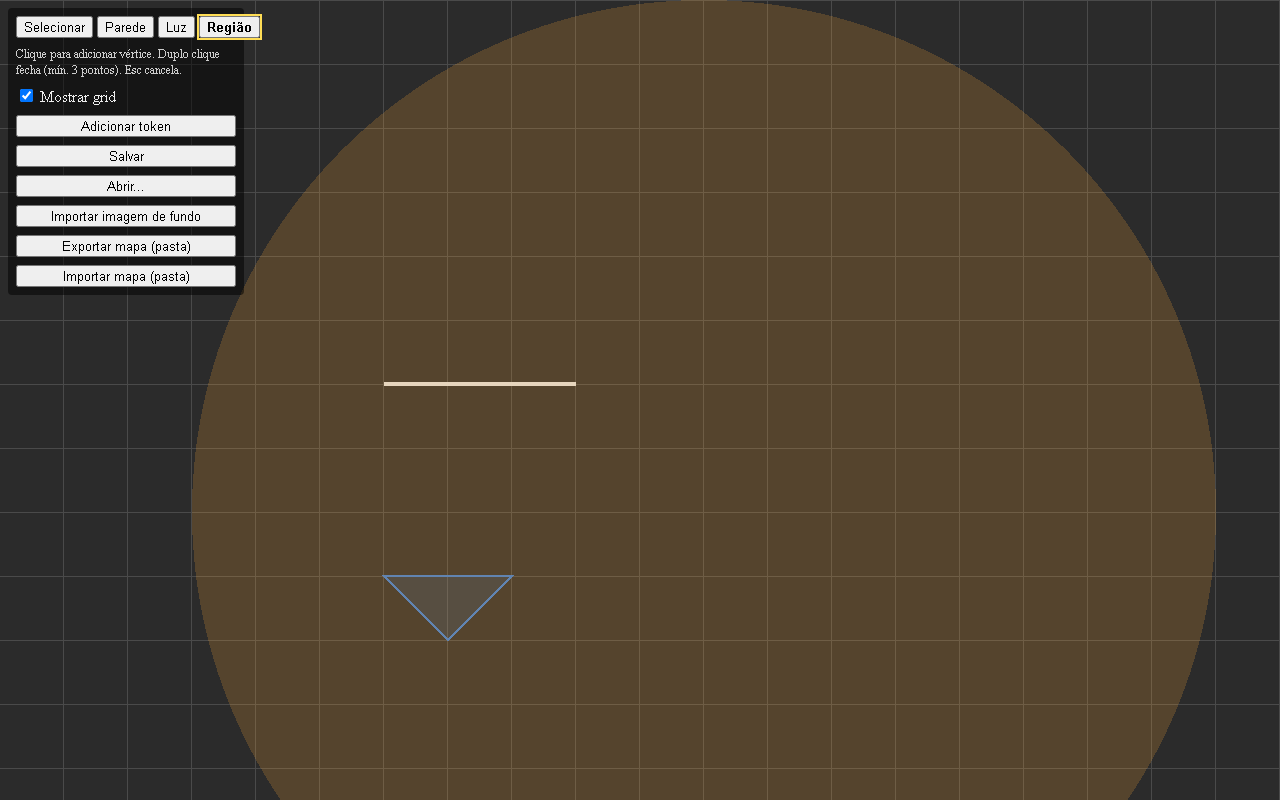
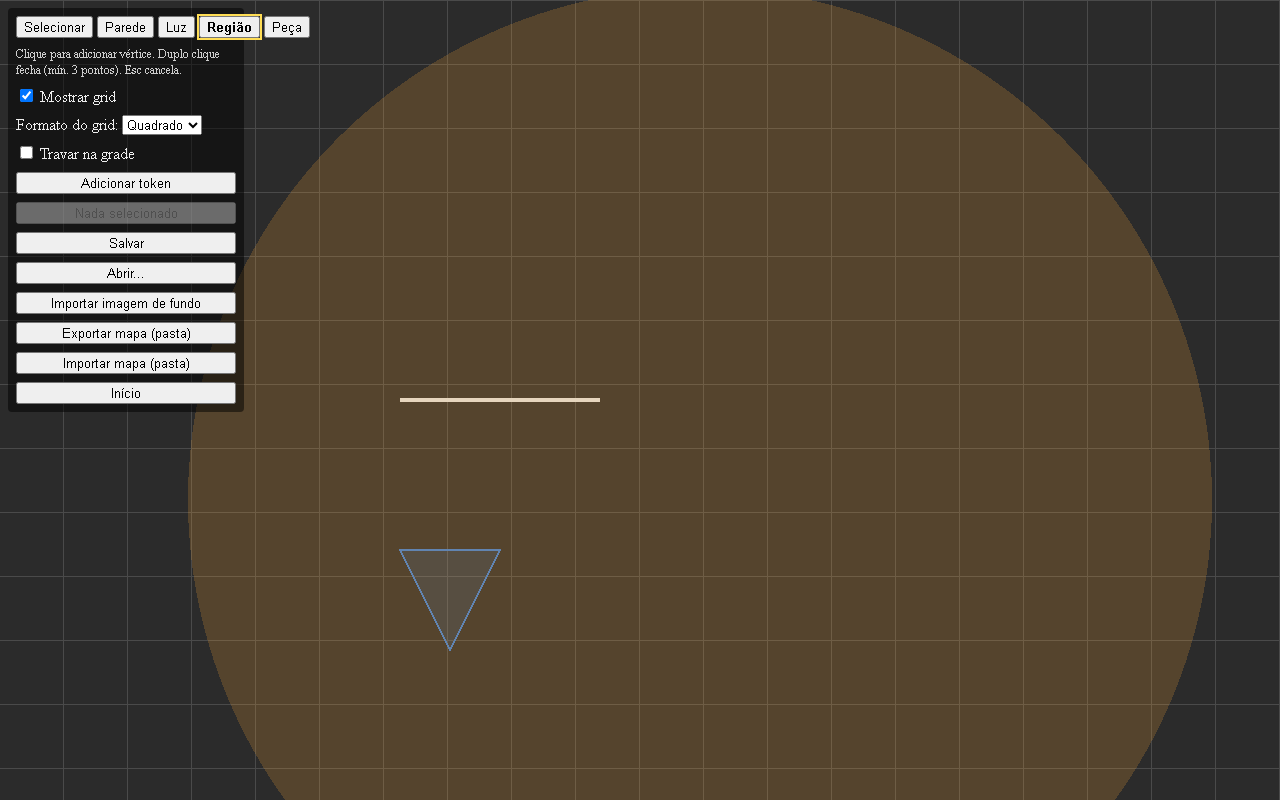
feat: tela inicial com wizard de novo mapa
App não joga mais direto no editor em branco. StartScreen.tsx oferece
"Criar mapa" (nome, largura/altura em quadros, tamanho do quadro,
formato de grade) e "Abrir mapa existente..." (reaproveita o picker
já existente). Editor ganha botão "Início" para voltar. Navegação é
estado local de App.tsx — não entra no Zustand, é só UI.

Ajusta os 3 specs e2e existentes para passar pela tela inicial
(clicar "Criar mapa") antes de esperar o <canvas>, já que o app não
abre mais direto no editor.

diff --git a/client/src/StartScreen.tsx b/client/src/StartScreen.tsx
@@ -1,0 +1,114 @@
+import { useState } from 'react'
+import type { MapData, GridShape } from './types/map'
+import * as mapFactory from './lib/mapFactory'
+
+interface StartScreenProps {
+  onCreate: (map: MapData) => void
+  onOpen: () => void
+}
+
+const inputStyle = { width: '100%', boxSizing: 'border-box' as const }
+const fieldStyle = { display: 'flex', flexDirection: 'column' as const, gap: 4 }
+
+export function StartScreen({ onCreate, onOpen }: StartScreenProps) {
+  const [name, setName] = useState('Mapa sem título')
+  const [width, setWidth] = useState(30)
+  const [height, setHeight] = useState(20)
+  const [gridSize, setGridSize] = useState(64)
+  const [gridShape, setGridShape] = useState<GridShape>('square')
+
+  const handleSubmit = (event: React.FormEvent) => {
+    event.preventDefault()
+    const map: MapData = {
+      ...mapFactory.createEmptyMap(
+        `map_${crypto.randomUUID()}`,
+        name.trim() || 'Mapa sem título',
+        Math.max(1, Math.round(width) || 30),
+        Math.max(1, Math.round(height) || 20),
+        Math.max(1, Math.round(gridSize) || 64),
+      ),
+      gridShape,
+    }
+    onCreate(map)
+  }
+
+  return (
+    <div
+      style={{
+        width: '100vw',
+        height: '100vh',
+        display: 'flex',
+        alignItems: 'center',
+        justifyContent: 'center',
+        background: '#1a1a1a',
+        color: '#eee',
+      }}
+    >
+      <div style={{ display: 'flex', gap: 32, alignItems: 'flex-start' }}>
+        <form
+          onSubmit={handleSubmit}
+          style={{
+            display: 'flex',
+            flexDirection: 'column',
+            gap: 12,
+            width: 280,
+            background: '#242424',
+            padding: 24,
+            borderRadius: 8,
+          }}
+        >
+          <h1 style={{ fontSize: 18, margin: '0 0 8px' }}>Labirinto</h1>
+          <label style={fieldStyle}>
+            Nome do mapa
+            <input style={inputStyle} value={name} onChange={(event) => setName(event.target.value)} />
+          </label>
+          <label style={fieldStyle}>
+            Largura (quadros)
+            <input
+              style={inputStyle}
+              type="number"
+              min={1}
+              value={width}
+              onChange={(event) => setWidth(Number(event.target.value))}
+            />
+          </label>
+          <label style={fieldStyle}>
+            Altura (quadros)
+            <input
+              style={inputStyle}
+              type="number"
+              min={1}
+              value={height}
+              onChange={(event) => setHeight(Number(event.target.value))}
+            />
+          </label>
+          <label style={fieldStyle}>
+            Tamanho do quadro (px)
+            <input
+              style={inputStyle}
+              type="number"
+              min={1}
+              value={gridSize}
+              onChange={(event) => setGridSize(Number(event.target.value))}
+            />
+          </label>
+          <label style={fieldStyle}>
+            Formato da grade
+            <select
+              style={inputStyle}
+              value={gridShape}
+              onChange={(event) => setGridShape(event.target.value as GridShape)}
+            >
+              <option value="square">Quadrado</option>
+              <option value="hex">Hexágono</option>
+            </select>
+          </label>
+          <button type="submit">Criar mapa</button>
+        </form>
+        <button type="button" onClick={onOpen} style={{ alignSelf: 'center' }}>
+          Abrir mapa existente...
+        </button>
+      </div>
+    </div>
+  )
+}

diff --git a/client/e2e/task4-selection-pixel-diff.spec.ts b/client/e2e/task4-selection-pixel-diff.spec.ts
@@ -27,6 +27,7 @@ test.beforeEach(async ({ page }) => {
     }
   })
   await page.goto('/')
+  await page.getByRole('button', { name: 'Criar mapa' }).click()
   await page.waitForSelector('canvas')
   await resetMap(page)
 })
@@ -43,14 +44,14 @@ test('parede: pixel da região muda ao selecionar (destaque amarelo desenha de v
 
   await selectTool(page, 'Selecionar')
   const clip = { x: box.x + 380, y: box.y + 380, width: 240, height: 40 }
-  const before = await page.locator('canvas').screenshot({ clip })
+  const before = await page.screenshot({ clip })
 
   await page.mouse.click(box.x + 500, box.y + 400)
   await expect
     .poll(async () => page.evaluate(async () => (await import('/src/stores/mapStore.ts')).useMapStore.getState().selection?.kind))
     .toBe('wall')
 
-  const after = await page.locator('canvas').screenshot({ clip })
+  const after = await page.screenshot({ clip })
   expect(before.equals(after)).toBe(false)
 })
 
@@ -63,14 +64,14 @@ test('luz: pixel da região muda ao selecionar (anel de destaque desenha de verd
 
   await selectTool(page, 'Selecionar')
   const clip = { x: box.x + 470, y: box.y + 470, width: 60, height: 60 }
-  const before = await page.locator('canvas').screenshot({ clip })
+  const before = await page.screenshot({ clip })
 
   await page.mouse.click(box.x + 500, box.y + 500)
   await expect
     .poll(async () => page.evaluate(async () => (await import('/src/stores/mapStore.ts')).useMapStore.getState().selection?.kind))
     .toBe('light')
 
-  const after = await page.locator('canvas').screenshot({ clip })
+  const after = await page.screenshot({ clip })
   expect(before.equals(after)).toBe(false)
 })
 
@@ -86,14 +87,14 @@ test('região: pixel da área muda ao selecionar (preenchimento de destaque dese
 
   await selectTool(page, 'Selecionar')
   const clip = { x: box.x + 400, y: box.y + 400, width: 100, height: 90 }
-  const before = await page.locator('canvas').screenshot({ clip })
+  const before = await page.screenshot({ clip })
 
   await page.mouse.click(box.x + 450, box.y + 435)
   await expect
     .poll(async () => page.evaluate(async () => (await import('/src/stores/mapStore.ts')).useMapStore.getState().selection?.kind))
     .toBe('region')
 
-  const after = await page.locator('canvas').screenshot({ clip })
+  const after = await page.screenshot({ clip })
   expect(before.equals(after)).toBe(false)
 })
 
@@ -107,13 +108,13 @@ test('peça: pixel da região muda ao selecionar (contorno de destaque desenha d
   })
   await selectTool(page, 'Selecionar')
   const clip = { x: box.x + 390, y: box.y + 390, width: 84, height: 84 }
-  const before = await page.locator('canvas').screenshot({ clip })
+  const before = await page.screenshot({ clip })
 
   await page.mouse.click(box.x + 400, box.y + 400)
   await expect
     .poll(async () => page.evaluate(async () => (await import('/src/stores/mapStore.ts')).useMapStore.getState().selection?.kind))
     .toBe('prop')
 
-  const after = await page.locator('canvas').screenshot({ clip })
+  const after = await page.screenshot({ clip })
   expect(before.equals(after)).toBe(false)
 })

diff --git a/client/src/App.tsx b/client/src/App.tsx
@@ -1,10 +1,13 @@
+import { useState } from 'react'
 import { PixiCanvas } from './pixi/PixiCanvas'
+import { StartScreen } from './StartScreen'
 import { useMapStore } from './stores/mapStore'
 import { saveMapToAppData, pickMapJsonToOpen, loadMapFromDisk, mapDirFor, defaultMapsDir } from './lib/mapFileIO'
 import { pickBackgroundImage, importBackgroundImage } from './lib/imageImport'
 import { pickExportFolder, pickImportFolder, exportMapFolder, importMapFolder } from './lib/mapExport'
 import { join } from '@tauri-apps/api/path'
 import type { DrawingTool } from './types/tools'
+import type { MapData } from './types/map'
 
 const TOOL_LABELS: Record<DrawingTool, string> = {
   select: 'Selecionar',
@@ -30,6 +33,7 @@ const TOOL_HINTS: Partial<Record<DrawingTool, string>> = {
 }
 
 function App() {
+  const [screen, setScreen] = useState<'start' | 'editor'>('start')
   const showGrid = useMapStore((state) => state.map.showGrid)
   const setShowGrid = useMapStore((state) => state.setShowGrid)
   const addToken = useMapStore((state) => state.addToken)
@@ -58,6 +62,12 @@ function App() {
     const path = await pickMapJsonToOpen()
     if (!path) return
     loadMap(await loadMapFromDisk(path))
+    setScreen('editor')
+  }
+
+  const handleCreate = (newMap: MapData) => {
+    loadMap(newMap)
+    setScreen('editor')
   }
 
   const handleImportBackground = async () => {
@@ -82,6 +92,10 @@ function App() {
     const mapsDir = await defaultMapsDir()
     const importedMapId = await importMapFolder(sourceDir, mapsDir)
     loadMap(await loadMapFromDisk(await join(await mapDirFor(importedMapId), 'map.json')))
+  }
+
+  if (screen === 'start') {
+    return <StartScreen onCreate={handleCreate} onOpen={handleOpen} />
   }
 
   return (
@@ -144,6 +158,7 @@ function App() {
         <button type="button" onClick={handleImportBackground}>Importar imagem de fundo</button>
         <button type="button" onClick={handleExportFolder}>Exportar mapa (pasta)</button>
         <button type="button" onClick={handleImportFolder}>Importar mapa (pasta)</button>
+        <button type="button" onClick={() => setScreen('start')}>Início</button>
       </div>
     </div>
   )

diff --git a/client/e2e/task4-drawing-tools.spec.ts b/client/e2e/task4-drawing-tools.spec.ts
@@ -40,6 +40,7 @@ async function selectTool(page: Page, label: 'Selecionar' | 'Parede' | 'Luz' | '
 
 test.beforeEach(async ({ page }) => {
   await page.goto('/')
+  await page.getByRole('button', { name: 'Criar mapa' }).click()
   await page.waitForSelector('canvas')
   await resetMap(page)
 })

diff --git a/client/e2e/task4-select-delete.spec.ts b/client/e2e/task4-select-delete.spec.ts
@@ -62,6 +62,7 @@ test.beforeEach(async ({ page }) => {
     }
   })
   await page.goto('/')
+  await page.getByRole('button', { name: 'Criar mapa' }).click()
   await page.waitForSelector('canvas')
   await resetMap(page)
 })
